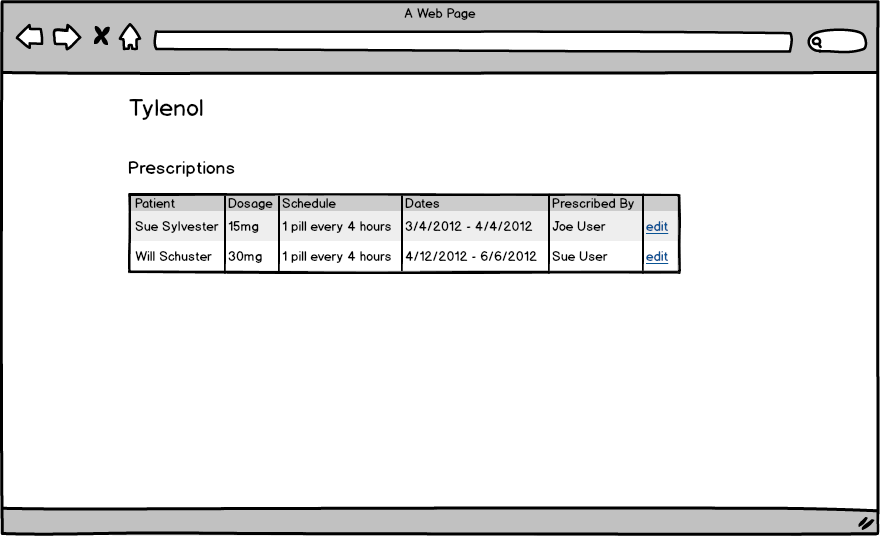
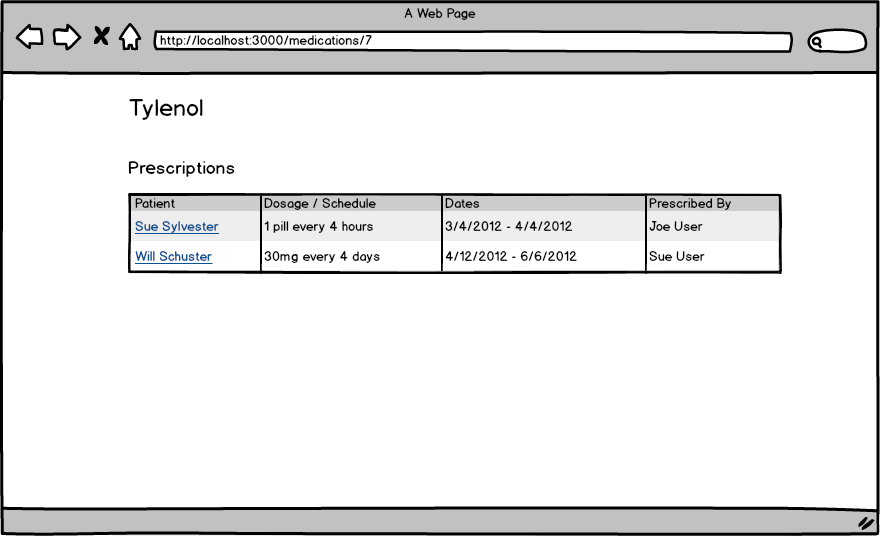
updated wireframes to match new stories

Changed region(s): [[0.1534, 0.3582, 0.8898, 0.5373], [0.1841, 0.0597, 0.4295, 0.0896]]

diff --git a/README.md b/README.md
@@ -41,20 +41,20 @@ Then the system validates that all fields are required
 And displays error messages as in the comp if they are missing
 ```
 
-**Dosage field must be a number**
-
-```
-When I try to create a prescription
-And I try to add a non-numeric dosage amount
-Then an error message is displayed
-```
-
 **Users can see prescriptions from the medications show page**
 
 ```
 Given I am on the index page
 And I click on the name of a medication
 Then I see a list of people that have a prescription for that medication
+```
+
+**Dosage field must be a number**
+
+```
+When I try to create a prescription
+And I try to add a non-numeric dosage amount
+Then an error message is displayed
 ```
 
 **End date cannot be before start date on prescriptions**
@@ -71,6 +71,10 @@ Index page
 
 <img src="project/images/01-index.png" />
 
+Patient show page
+
+<img src="project/images/04-patient-show.png" />
+
 New prescription page
 
 <img src="project/images/02-new-prescription.png" />
@@ -79,14 +83,10 @@ New prescription page w/ errors
 
 <img src="project/images/03-new-prescription-with-errors.png" />
 
-Person show page
-
-<img src="project/images/04-person-show.png" />
-
 Medication show page
 
 <img src="project/images/05-medications-show.png" />
 
 ## References
 
-* [ActiveRecord Enum](http://api.rubyonrails.org/v4.1.0/classes/ActiveRecord/Enum.html)
+* [Select Tag](http://api.rubyonrails.org/classes/ActionView/Helpers/FormBuilder.html#method-i-select)
